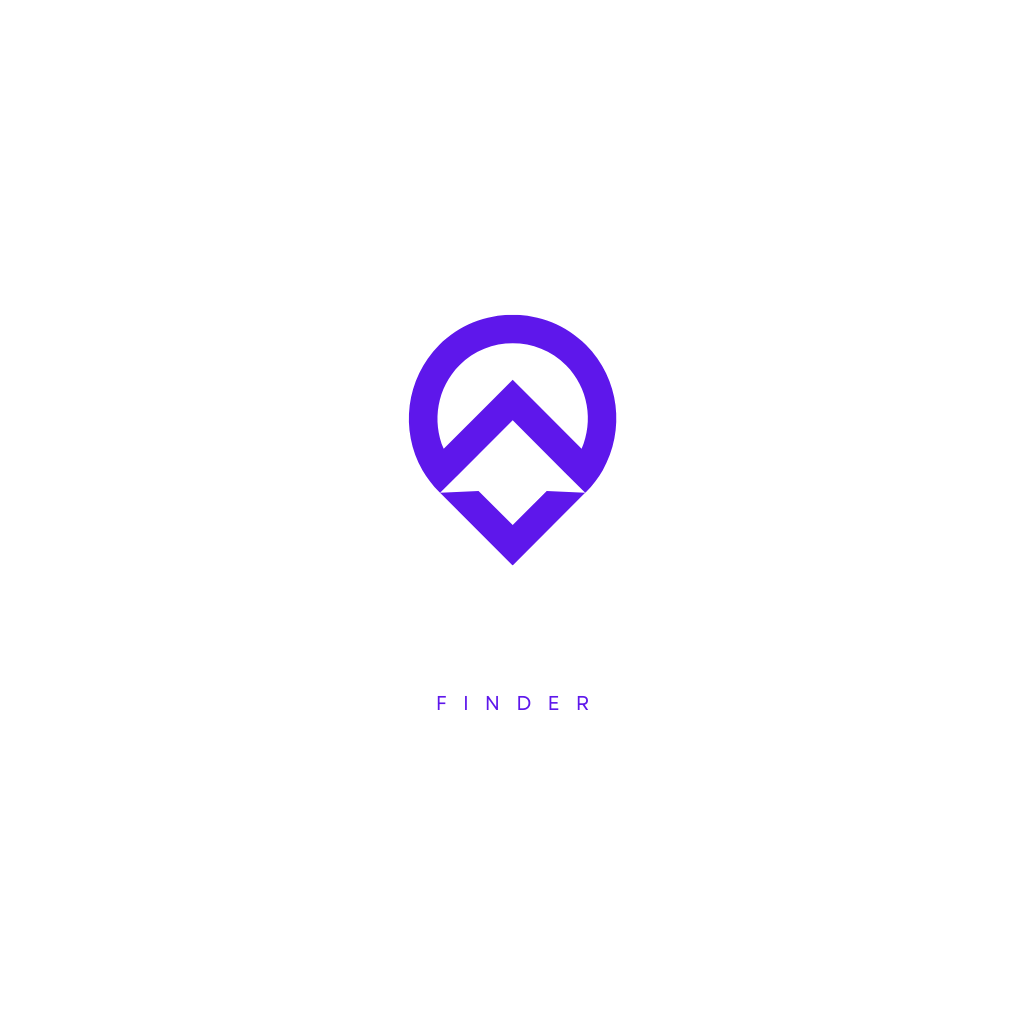
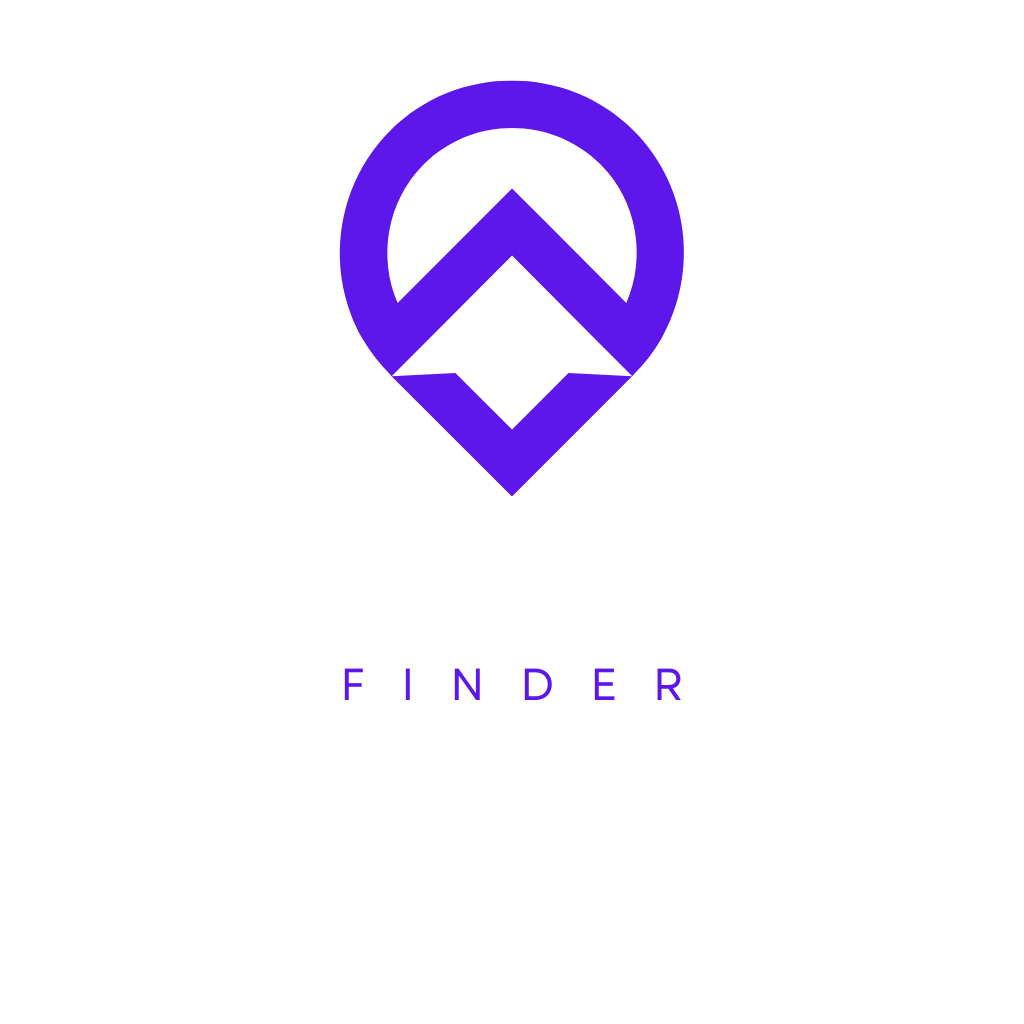
"Tela de lista colocada (falta fazer os itens salvos aparecerem) e ajustes de design na home, devs e layout da bottom"

diff --git a/app/(tabs)/lista.tsx b/app/(tabs)/lista.tsx
@@ -1,0 +1,152 @@
+import React, { useState, useEffect } from 'react';
+import {
+  View,
+  Text,
+  FlatList,
+  StyleSheet,
+  TouchableOpacity,
+  Alert
+} from 'react-native';
+import AsyncStorage from '@react-native-async-storage/async-storage';
+import { LinearGradient } from 'expo-linear-gradient';
+import { useRouter } from 'expo-router';
+
+export default function ListaVeiculos() {
+  const [veiculos, setVeiculos] = useState([]);
+  const router = useRouter();
+
+  useEffect(() => {
+    carregarVeiculos();
+  }, []);
+
+  const carregarVeiculos = async () => {
+    try {
+      const cadastrosveiculosSalvos = await AsyncStorage.getItem('veiculos');
+      if (cadastrosveiculosSalvos !== null) {
+        setVeiculos(JSON.parse(cadastrosveiculosSalvos));
+      }
+    } catch (error) {
+      console.error('Erro ao carregar os veículos:', error);
+    }
+  };
+
+  const excluirVeiculo = async (id) => {
+    Alert.alert('Confirmar exclusão', 'Deseja excluir este veículo?', [
+      {
+        text: 'Cancelar',
+        style: 'cancel',
+      },
+      {
+        text: 'Excluir',
+        onPress: async () => {
+          const novaLista = veiculos.filter((item) => item.id !== id);
+          setVeiculos(novaLista);
+          await AsyncStorage.setItem('veiculos', JSON.stringify(novaLista));
+        },
+        style: 'destructive',
+      },
+    ]);
+  };
+
+  const editarVeiculo = (veiculo) => {
+    router.push({
+      pathname: '/cadastro',
+      params: { veiculo: JSON.stringify(veiculo) }
+    });
+  };
+
+  const renderItem = ({ item }) => (
+    <View style={styles.itemContainer}>
+      <Text style={styles.itemText}>Nome: {item.nome}</Text>
+      <Text style={styles.itemText}>Fabricação: {item.fabricacao}</Text>
+      <Text style={styles.itemText}>Validade: {item.validade}</Text>
+      <Text style={styles.itemText}>Quantidade: {item.quantidade}</Text>
+      <Text style={styles.itemText}>Lote: {item.lote}</Text>
+      <Text style={styles.itemText}>Estado: {item.estado}</Text>
+      <Text style={styles.itemText}>Código de Barras: {item.codigoBarras}</Text>
+
+      <View style={styles.botoesContainer}>
+        <TouchableOpacity style={styles.botaoEditar} onPress={() => editarVeiculo(item)}>
+          <Text style={styles.textoBotao}>Editar</Text>
+        </TouchableOpacity>
+
+        <TouchableOpacity style={styles.botaoExcluir} onPress={() => excluirVeiculo(item.id)}>
+          <Text style={styles.textoBotao}>Excluir</Text>
+        </TouchableOpacity>
+      </View>
+    </View>
+  );
+
+  return (
+    <LinearGradient
+          colors={['#ff5f96', '#ffe66d']}
+          start={{ x: 0, y: 1 }}
+          end={{ x: 1, y: 1 }}
+          style={styles.container}
+        >
+      <Text style={styles.title}>Lista de Veículos salvos</Text>
+      <FlatList
+        data={veiculos}
+        keyExtractor={(item) => item.id.toString()}
+        renderItem={renderItem}
+        ListEmptyComponent={<Text style={styles.emptyText}>Nenhum veículo cadastrado.</Text>}
+        contentContainerStyle={{ paddingBottom: 16 }}
+      />
+    </LinearGradient>
+  );
+}
+
+const styles = StyleSheet.create({
+  container: {
+    flex: 1,
+    padding: 16,
+  },
+  title: {
+    fontSize: 22,
+    fontWeight: 'bold',
+    marginTop: 40,
+    marginBottom: 16,
+    textAlign: 'center',
+    color: '#fff',
+  },
+  itemContainer: {
+    backgroundColor: '#ffffffcc',
+    borderRadius: 8,
+    padding: 12,
+    marginBottom: 12,
+  },
+  itemText: {
+    fontSize: 14,
+    marginBottom: 4,
+    color: '#000',
+  },
+  botoesContainer: {
+    flexDirection: 'row',
+    justifyContent: 'space-between',
+    marginTop: 10,
+  },
+  botaoEditar: {
+    backgroundColor: '#2951ff',
+    padding: 8,
+    borderRadius: 5,
+    flex: 1,
+    marginRight: 8,
+  },
+  botaoExcluir: {
+    backgroundColor: '#ff0a0a',
+    padding: 8,
+    borderRadius: 5,
+    flex: 1,
+    marginLeft: 8,
+  },
+  textoBotao: {
+    color: '#fff',
+    textAlign: 'center',
+    fontWeight: 'bold',
+  },
+  emptyText: {
+    textAlign: 'center',
+    marginTop: 20,
+    color: '#fff',
+  },
+});

diff --git a/app/(tabs)/cadastro.tsx b/app/(tabs)/cadastro.tsx
@@ -33,30 +33,6 @@ export default function Cadastro() {
   const [produtoEditandoId, setProdutoEditandoId] = useState(null);
 
 
-  // Função para carregar um produto para editar
-  const carregarProdutoParaEditar = async (id) => {
-    try {
-      const produtosSalvos = await AsyncStorage.getItem('produtos');
-      const produtos = produtosSalvos ? JSON.parse(produtosSalvos) : [];
-      const produto = produtos.find(p => p.id === id);
-      if (produto) {
-        setStatus(produto.statu);
-        setAdmissao(produto.admissao);
-        setModelo(produto.modelo);
-        setMarca(produto.marca);
-        setPlaca(produto.placa);
-        setVeiculo(produto.veiculo);
-        setChassi(produto.chassi);
-        setEditando(true);
-        setProdutoEditandoId(id);
-      } else {
-        Alert.alert('Erro', 'Veículo não encontrado para edição.');
-      }
-    } catch (error) {
-      console.error(error);
-    }
-  };
-
   const salvarVeiculo = async () => {
     if (!status || !admissao || !modelo || !marca || !placa || !veiculo || !chassi) {
       Alert.alert('Erro', 'Preencha todos os campos.');
@@ -64,8 +40,8 @@ export default function Cadastro() {
     }
 
     try {
-      const produtosSalvos = await AsyncStorage.getItem('produtos');
-      const produtos = produtosSalvos ? JSON.parse(produtosSalvos) : [];
+      const cadastrosveiculosSalvos = await AsyncStorage.getItem('cadastrosveiculos');
+      const cadastrosveiculos = cadastrosveiculosSalvos ? JSON.parse(cadastrosveiculosSalvos) : [];
 
       if (editando) {
 
@@ -80,14 +56,12 @@ export default function Cadastro() {
           veiculo,
           chassi
         };
-        produtos.push(novaMoto);
-        await AsyncStorage.setItem('produtos', JSON.stringify(produtos));
+        cadastrosveiculos.push(novaMoto);
+        await AsyncStorage.setItem('cadastrosveiculos', JSON.stringify(cadastrosveiculos));
         Alert.alert('Sucesso', 'Veículo cadastrado com sucesso!');
       }
 
       limparCampos();
-      setEditando(false);
-      setProdutoEditandoId(null);
 
     } catch (error) {
       Alert.alert('Erro', 'Não foi possível salvar o veículo.');
@@ -138,7 +112,7 @@ export default function Cadastro() {
             style={styles.input}
             placeholder="Modelo"
             value={modelo}
-            onChangeText={text => setModelo(formatarData(text))}
+            onChangeText={setModelo}
           />
           <TextInput
             style={styles.input}

diff --git a/app/(tabs)/index.tsx b/app/(tabs)/index.tsx
@@ -31,12 +31,20 @@ export default function Home() {
           <Text style={styles.buttonText}>Cadastro</Text>
         </TouchableOpacity>
       </ScrollView>
-
+      <ScrollView contentContainerStyle={styles.linksContainer}>
+        <TouchableOpacity style={styles.button} onPress={() => router.push("/(tabs)/lista")}>
+          <Text style={styles.buttonText}>Lista</Text>
+        </TouchableOpacity>
+      </ScrollView>
+      
       <ScrollView contentContainerStyle={styles.linksContainer}>
         <TouchableOpacity style={styles.button} onPress={() => router.push("/(tabs)/integrantes")}>
           <Text style={styles.buttonText}>Desenvolvedores</Text>
         </TouchableOpacity>
       </ScrollView>
+
+      
+
     </LinearGradient>
   );
 }
@@ -48,17 +56,11 @@ const styles = StyleSheet.create({
     justifyContent: 'center',
     padding: 16,
   },
-  title: {
-    fontSize: 26,
-    color: '#0A3CFF',
-    fontWeight: 'bold',
-    marginBottom: 30,
-  },
   linksContainer: {
     alignItems: 'center',
     justifyContent: 'center',
-    gap: 30,
-    color: "#0A3CFF"
+    gap: 20,
+    color: "#5e17eb"
   },
   button: {
     backgroundColor: "#5e17eb",
@@ -66,15 +68,14 @@ const styles = StyleSheet.create({
     borderColor: 'black',
     paddingHorizontal: 24,
     borderRadius: 12,
-    elevation: 3,
-    width: 250,
+    elevation: 5,
+    width: 200,
     alignItems: 'center',
   },
   logo: {
-    width: 1800,
-    height: 550,
-    marginTop: 70,
-    marginBottom: 80,
+    width: 380,
+    height: 500,
+    marginTop: 10,
   },
   buttonText: {
     color: '#ffffff',

diff --git a/app/(tabs)/_layout.tsx b/app/(tabs)/_layout.tsx
@@ -5,6 +5,7 @@ export default function TabLayout() {
     return (
         <Tabs
             screenOptions={{
+                headerShown: false,
                 tabBarActiveTintColor: "#ff5f96",
                 tabBarInactiveTintColor: "#ffffff",
                 tabBarStyle: {
@@ -34,7 +35,17 @@ export default function TabLayout() {
             />
 
             <Tabs.Screen
-                name="dev"
+                name="lista"
+                options={{
+                    title: 'Lista',
+                    tabBarIcon: ({ color }) => (
+                        <Ionicons size={28} name="list" color={color} />
+                    ),
+                }}
+            />
+
+            <Tabs.Screen
+                name="integrantes"
                 options={{
                     title: 'Devs',
                     tabBarIcon: ({ color }) => (

diff --git a/app/Components/Integrante.tsx b/app/Components/Integrante.tsx
@@ -48,9 +48,9 @@ const styles = StyleSheet.create({
     padding: 24,
     alignItems: "center",
     marginBottom: 24,
-    shadowColor: "#000",
-    shadowOffset: { width: 0, height: 2 },
-    shadowOpacity: 0.08,
+    shadowColor: "#5e17eb",
+    shadowOffset: { width: 8, height: 9 },
+    shadowOpacity: 0.01,
     shadowRadius: 6,
     elevation: 4,
   },
@@ -80,7 +80,7 @@ const styles = StyleSheet.create({
     gap: 20,
   },
   link: {
-    color: "#0A3CFF",
+    color: "#5e17eb",
     fontSize: 16,
     fontWeight: "500",
   },
